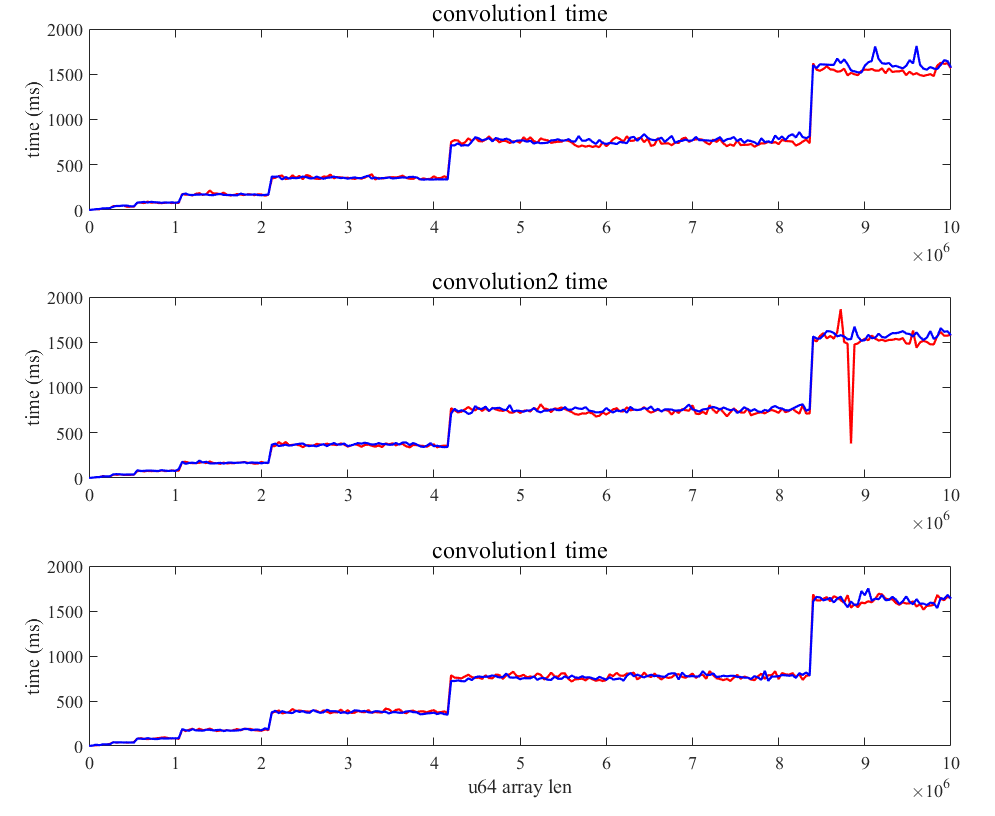
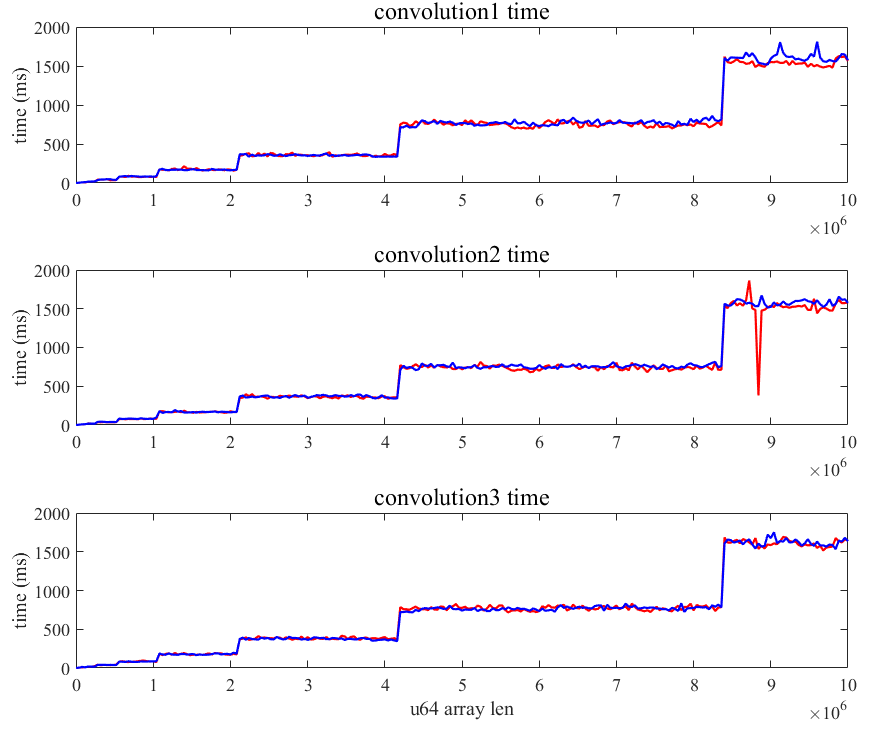
Add files via upload

diff --git a/time_plot.m b/time_plot.m
@@ -30,7 +30,7 @@ hold on
 plot(len, data2(:,3),'Color','b','LineWidth',1.1)
 ylabel("time (ms)", "FontName", "Times New Roman")
 xlabel("u64 array len", "FontName", "Times New Roman")
-title("convolution1 time",  "FontName", "Times New Roman", "FontSize", 12)
+title("convolution3 time",  "FontName", "Times New Roman", "FontSize", 12)
 
 figure(Color='w')
 plot(len, data1(:,4),'Color','r','LineWidth',1.1)
